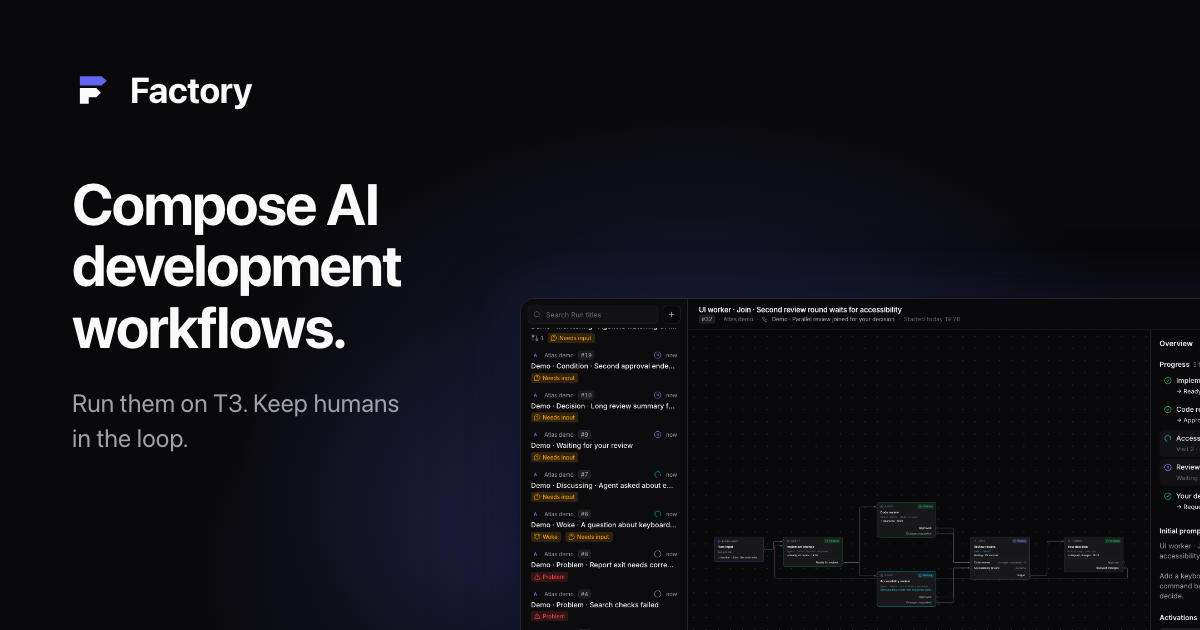
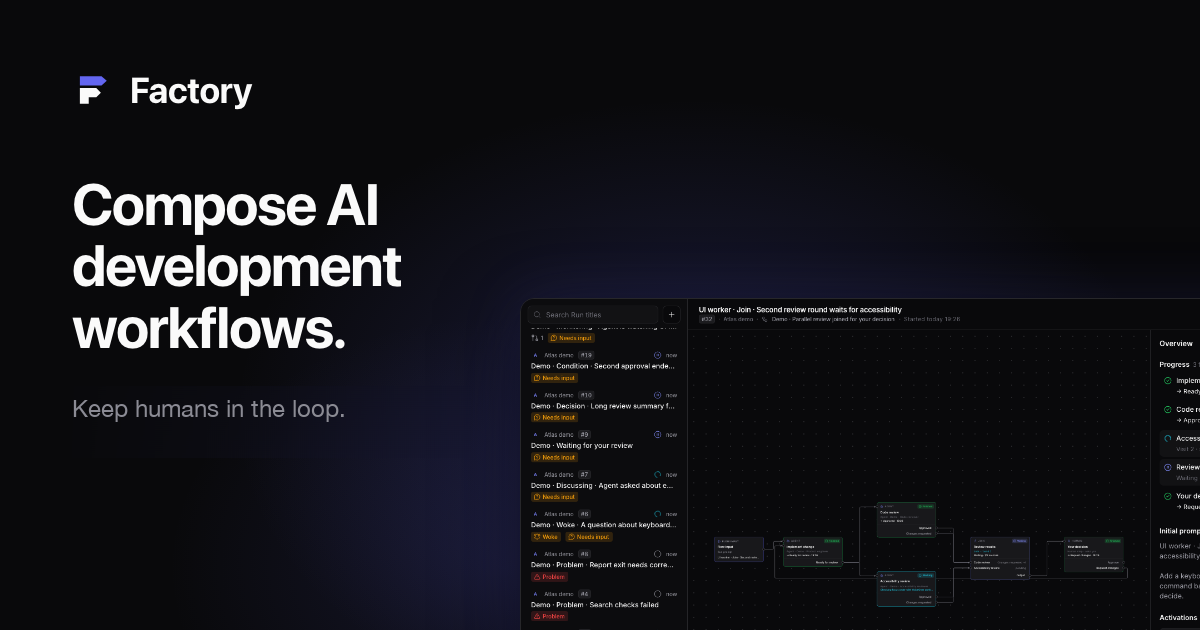
docs: state the T3 Code requirement and unofficial status on public surfaces (#765)

Changed region(s): [[0.0617, 0.6333, 0.3392, 0.7238]]

diff --git a/apps/landing/index.html b/apps/landing/index.html
@@ -6,7 +6,7 @@
     <title>T3 Factory: compose AI development workflows</title>
     <meta
       name="description"
-      content="Start a Run from one prompt, let reusable Agents carry it through your Flow on T3, and step in only when a decision needs you. Factory keeps every handoff, result and question in one place."
+      content="Start a Run from one prompt, let reusable Agents carry it through your Flow in T3 Code, and step in only when a decision needs you. Factory keeps every handoff, result and question in one place."
     />
     <link rel="canonical" href="%SITE_URL%" />
     <meta name="theme-color" content="#09090b" />
@@ -21,20 +21,20 @@
     <meta property="og:title" content="T3 Factory: compose AI development workflows" />
     <meta
       property="og:description"
-      content="Start a Run from one prompt, let reusable Agents carry it through your Flow on T3, and step in only when a decision needs you."
+      content="Start a Run from one prompt, let reusable Agents carry it through your Flow in T3 Code, and step in only when a decision needs you."
     />
     <meta property="og:image" content="%SITE_URL%og-image.png" />
     <meta property="og:image:width" content="1200" />
     <meta property="og:image:height" content="630" />
     <meta
       property="og:image:alt"
-      content="T3 Factory: Compose AI development workflows. Run them on T3. Keep humans in the loop. Beside it, a Run detail screen showing parallel Code review and Accessibility review converging into a Join block."
+      content="T3 Factory: Compose AI development workflows. Keep humans in the loop. Beside it, a Run detail screen showing parallel Code review and Accessibility review converging into a Join block."
     />
     <meta name="twitter:card" content="summary_large_image" />
     <meta name="twitter:title" content="T3 Factory: compose AI development workflows" />
     <meta
       name="twitter:description"
-      content="Start a Run from one prompt, let reusable Agents carry it through your Flow on T3, and step in only when a decision needs you."
+      content="Start a Run from one prompt, let reusable Agents carry it through your Flow in T3 Code, and step in only when a decision needs you."
     />
     <meta name="twitter:image" content="%SITE_URL%og-image.png" />
 
@@ -45,7 +45,7 @@
         "name": "T3 Factory",
         "url": "%SITE_URL%",
         "image": "%SITE_URL%og-image.png",
-        "description": "Start a Run from one prompt, let reusable Agents carry it through your Flow on T3, and step in only when a decision needs you. Factory keeps every handoff, result and question in one place.",
+        "description": "Start a Run from one prompt, let reusable Agents carry it through your Flow in T3 Code, and step in only when a decision needs you. Factory keeps every handoff, result and question in one place.",
         "applicationCategory": "DeveloperApplication",
         "operatingSystem": "macOS (Apple Silicon)",
         "softwareVersion": "%FACTORY_VERSION%",
@@ -95,9 +95,9 @@
           Compose AI development workflows.<br />Keep humans in the loop.
         </h1>
         <p class="mx-auto mt-6 max-w-[720px] text-lg leading-normal text-zinc-400 md:text-[19px]">
-          Start a Run from one prompt, let reusable Agents carry it through your Flow on T3, and
-          step in only when a decision needs you. Factory keeps every handoff, result and question
-          in one place.
+          Start a Run from one prompt, let reusable Agents carry it through your Flow in T3 Code,
+          and step in only when a decision needs you. Factory keeps every handoff, result and
+          question in one place.
         </p>
         <div class="mt-6 flex flex-wrap justify-center gap-3">
           <a
@@ -574,12 +574,13 @@
                 <path d="M15 13v2" />
                 <path d="M9 13v2" />
               </svg>
-              <h3 class="mt-3 text-[17px] leading-[1.2] font-semibold">Powered by T3 Code</h3>
+              <h3 class="mt-3 text-[17px] leading-[1.2] font-semibold">Requires T3 Code</h3>
               <p class="mt-3 text-sm leading-normal text-zinc-400">
+                Agent work is carried out in
                 <a href="https://t3.codes/" class="text-zinc-300 underline-offset-2 hover:underline"
-                  >T3</a
+                  >T3 Code</a
                 >
-                provides the agent conversations and execution; Factory routes the work.
+                threads; Factory routes the work.
               </p>
             </div>
             <div class="rounded-xl border border-zinc-800 bg-zinc-900 p-6">
@@ -687,14 +688,24 @@
         <p class="mt-6 text-[13px] text-zinc-500">
           Requires macOS on Apple Silicon. Real agent work needs T3 Code; the demo uses a simulator.
         </p>
+        <p class="mx-auto mt-4 max-w-[640px] text-[13px] leading-normal text-zinc-500">
+          T3 Factory requires T3 Code. Every agent task in a Run is carried out in a T3 Code thread,
+          and T3 Factory does not work without a T3 Code installation. T3 Factory is an independent,
+          unofficial project. It is not affiliated with, endorsed by, or sponsored by T3 Tools, Inc.
+          T3 Code is a trademark of T3 Tools, Inc.
+        </p>
       </section>
     </main>
 
     <footer
       class="mx-auto flex max-w-7xl flex-wrap items-center justify-between gap-6 px-6 py-10 text-[13px] md:px-16"
     >
-      <p class="text-zinc-400">
-        Powered by <a href="https://t3.codes/" class="font-medium text-zinc-50">T3 Code</a>
+      <p class="max-w-[560px] text-zinc-400">
+        T3 Factory requires T3 Code. Every agent task in a Run is carried out in a T3 Code thread,
+        and T3 Factory does not work without a
+        <a href="https://t3.codes/" class="font-medium text-zinc-50">T3 Code</a> installation. T3
+        Factory is an independent, unofficial project. It is not affiliated with, endorsed by, or
+        sponsored by T3 Tools, Inc. T3 Code is a trademark of T3 Tools, Inc.
       </p>
       <div class="flex flex-wrap gap-7 font-medium text-zinc-400">
         <a href="https://github.com/alimek/t3-factory/tree/main/docs" class="hover:text-zinc-50"

diff --git a/apps/desktop/src/main.ts b/apps/desktop/src/main.ts
@@ -45,6 +45,7 @@ import type {
   FactoryDesktop,
 } from "@t3-factory/contracts/desktop-bridge";
 import { ApprovedClient } from "./approved-client.ts";
+import { productStatement } from "./about.ts";
 import { AttentionCoordinator } from "./attention-coordinator.ts";
 import { AttentionSubscription, type AttentionSelection } from "./attention-subscription.ts";
 import { BackendSupervisor } from "./backend.ts";
@@ -774,6 +775,7 @@ if (!app.requestSingleInstanceLock()) {
 }
 
 async function start() {
+  app.setAboutPanelOptions({ applicationName: "T3 Factory", credits: productStatement });
   store = await SettingsStore.open(app.getPath("userData"));
   windowBounds = new WindowBoundsTracker(store.get().windowBounds);
   applyNativeAppearance(store.get().appearance);

diff --git a/apps/desktop/src/about.ts b/apps/desktop/src/about.ts
@@ -1,0 +1,2 @@
+export const productStatement =
+  "T3 Factory requires T3 Code. Every agent task in a Run is carried out in a T3 Code thread, and T3 Factory does not work without a T3 Code installation. T3 Factory is an independent, unofficial project. It is not affiliated with, endorsed by, or sponsored by T3 Tools, Inc. T3 Code is a trademark of T3 Tools, Inc.";

diff --git a/README.md b/README.md
@@ -4,18 +4,20 @@
 
 # T3 Factory
 
-**Compose AI development workflows. Run them on T3. Keep human decisions in the loop.**
+**Compose AI development workflows. Keep human decisions in the loop.**
+
+> T3 Factory requires T3 Code. Every agent task in a Run is carried out in a T3 Code thread, and T3 Factory does not work without a T3 Code installation. T3 Factory is an independent, unofficial project. It is not affiliated with, endorsed by, or sponsored by T3 Tools, Inc. T3 Code is a trademark of T3 Tools, Inc.
 
 [![Quality](https://github.com/alimek/t3-factory/actions/workflows/quality.yml/badge.svg)](https://github.com/alimek/t3-factory/actions/workflows/quality.yml)
 [![License: MIT](https://img.shields.io/badge/License-MIT-blue.svg)](LICENSE)
 
 T3 Factory is a local application for turning reusable AI Agents into visual software
 development workflows. Connect implementation, review and Human steps, add correction
-loops or parallel branches, then follow each Run from one place. T3 provides the agent
-conversations and execution through [T3 Code](https://t3.codes/); Factory stores your
+loops or parallel branches, then follow each Run from one place. The agent work runs in
+[T3 Code](https://t3.codes/), so T3 Factory requires T3 Code; Factory stores your
 workflow, routes work and records its history.
 
-[Try the demo](#try-the-demo) · [Run with T3](#run-with-t3) · [Documentation](docs/README.md) · [Contributing](CONTRIBUTING.md)
+[Try the demo](#try-the-demo) · [Run with T3 Code](#run-with-t3-code) · [Documentation](docs/README.md) · [Contributing](CONTRIBUTING.md)
 
 ## What you can do
 
@@ -89,7 +91,7 @@ pnpm dev
 Reset discards demo database edits and Run history. See the [scenario catalog](docs/dev-scenarios.md)
 and [storage/reset behavior](docs/installation.md#reset-and-seed).
 
-## Run with T3
+## Run with T3 Code
 
 From the installed checkout:
 
